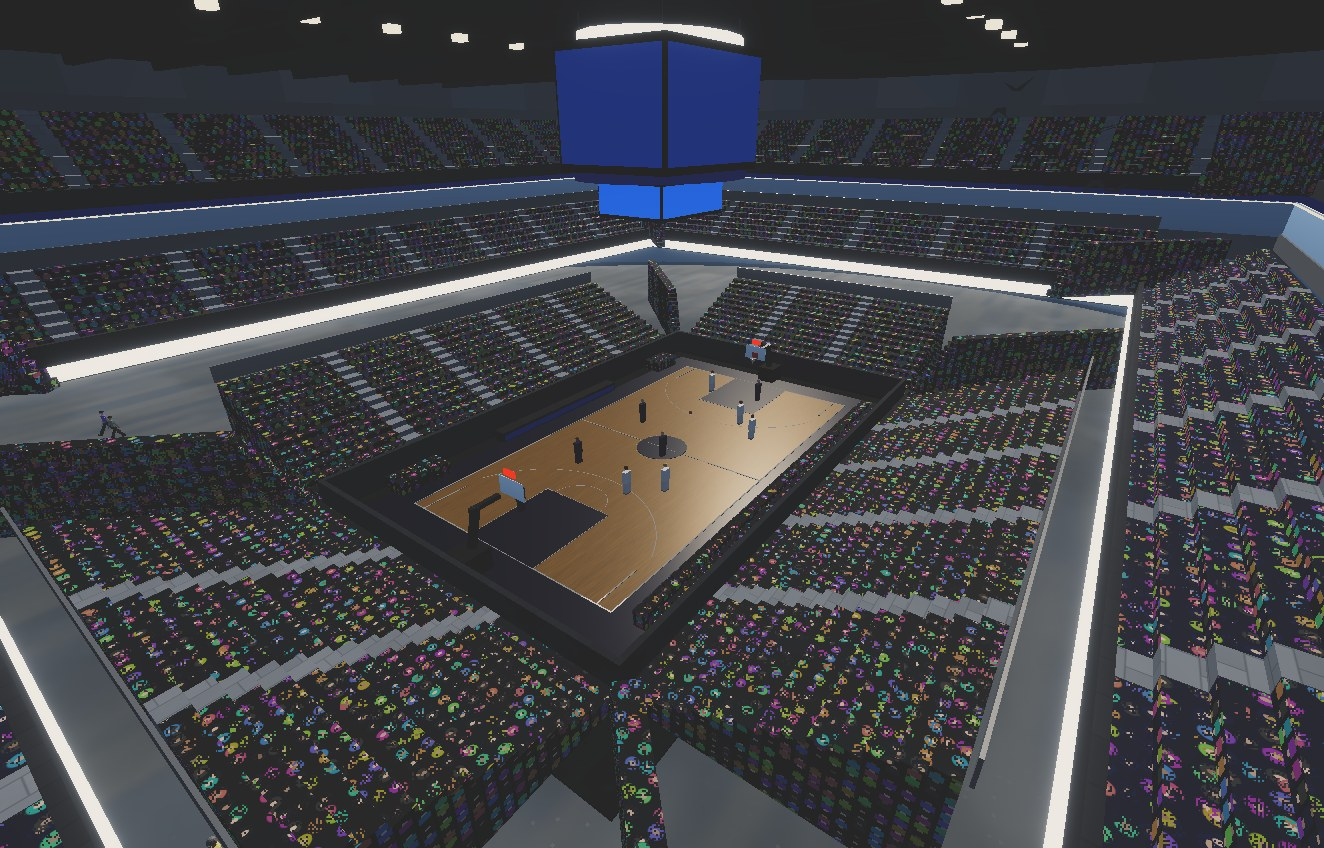
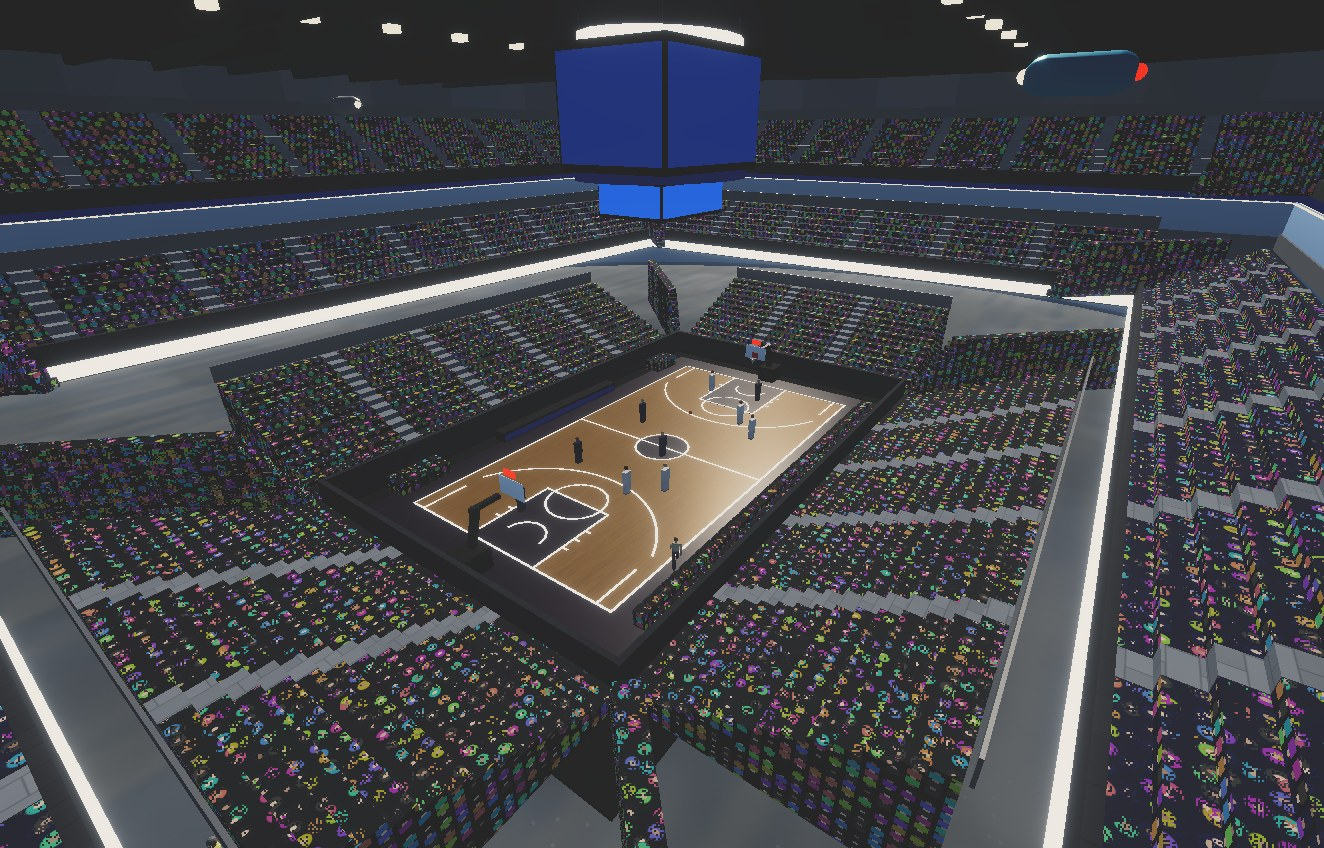
Pitch and court markings: raised above the surface, unshaded paint, wider, constant-width arcs
The pitch lines were buried 1 cm under the mowing stripes and the court lines z-fought with the
painted keys. Lines are now 0.3 m (pitch) and 0.15 m (court) wide in an unshaded paint material
with polygon offset, arcs are built from segments of the same width, and the court has hash marks.

Claude-Session: https://claude.ai/code/session_014yo4DpHJhzR4RbKay17FEp

diff --git a/src/explorer/venues.ts b/src/explorer/venues.ts
@@ -23,6 +23,21 @@ function hashRand(seed: number) {
   };
 }
 
+/**
+ * A painted arc of constant width, built from short straight segments so it is exactly as wide
+ * as the straight lines (scaled ring geometry would thin out on small circles and vanish on big
+ * ones). Angles are measured in the local (x, z) plane from +x towards +z.
+ */
+function paintArc(A: (shape: DShape, mat: DMat, u: number, y: number, v: number, sx: number, sy: number, sz: number, col: string | THREE.Color, rot?: number) => void, cx: number, cz: number, r: number, a0: number, a1: number, y: number, w: number, col: string) {
+  const n = Math.max(6, Math.ceil((r * Math.abs(a1 - a0)) / 0.6));
+  const da = (a1 - a0) / n;
+  for (let k = 0; k < n; k++) {
+    const a = a0 + da * (k + 0.5);
+    // a box's local x points along (cos t, -sin t) after a turn t about y; the tangent at a is (-sin a, cos a)
+    A('box', 'paint', cx + Math.cos(a) * r, y, cz + Math.sin(a) * r, r * Math.abs(da) * 1.06, 0.015, w, col, -a - Math.PI / 2);
+  }
+}
+
 const TEAM_COLS = ['#c8102e', '#034694', '#6cabdd', '#fdb913', '#132257', '#7a263a', '#00a650', '#f47a20'];
 
 /** A straight run of tiered seating along local +x, rising away from the field towards -z. */
@@ -79,24 +94,32 @@ export function footballStadium(out: DistrictData, add: Add, b: Building, warm: 
   A('box', 'stone', 0, 0, 0, L + 12, 0.1, Wp + 12, '#4a7a3a');
   const stripes = 18;
   for (let k = 0; k < stripes; k++) A('box', 'pitch', -L / 2 - 3 + (k + 0.5) * ((L + 6) / stripes), 0.06, 0, (L + 6) / stripes, 0.1, Wp + 6, k % 2 ? '#3f8a34' : '#4c9a3c');
-  const line = '#f4f6f2';
-  const lw = 0.12;
+  // markings sit clear above the tallest stripe (top at 0.16) in unshaded paint, 0.3 m wide so they
+  // still read from the upper tier and from the air
+  const line = '#ffffff';
+  const lw = 0.3;
+  const ly = 0.18;
   const L2 = L / 2;
   const W2 = Wp / 2;
-  A('box', 'plaster', 0, 0.12, W2, L, 0.03, lw, line);
-  A('box', 'plaster', 0, 0.12, -W2, L, 0.03, lw, line);
-  for (const s of [-1, 1]) A('box', 'plaster', s * L2, 0.12, 0, lw, 0.03, Wp, line);
-  A('box', 'plaster', 0, 0.12, 0, lw, 0.03, Wp, line);
-  A('ring', 'plaster', 0, 0.13, 0, 18.3, 1, 18.3, line);
-  A('cyl', 'plaster', 0, 0.12, 0, 0.3, 0.03, 0.3, line);
+  A('box', 'paint', 0, ly, W2, L + lw, 0.015, lw, line);
+  A('box', 'paint', 0, ly, -W2, L + lw, 0.015, lw, line);
+  for (const s of [-1, 1]) A('box', 'paint', s * L2, ly, 0, lw, 0.015, Wp + lw, line);
+  A('box', 'paint', 0, ly, 0, lw, 0.015, Wp, line);
+  paintArc(A, 0, 0, 9.15, 0, Math.PI * 2, ly, lw, line);
+  A('cyl', 'paint', 0, ly, 0, 0.7, 0.015, 0.7, line);
   for (const s of [-1, 1]) {
-    // penalty area 40.3 x 16.5, goal area 18.3 x 5.5, spot at 11, the D
-    A('box', 'plaster', s * (L2 - 16.5), 0.12, 0, lw, 0.03, 40.3, line);
-    for (const t of [-1, 1]) A('box', 'plaster', s * (L2 - 8.25), 0.12, t * 20.15, 16.5, 0.03, lw, line);
-    A('box', 'plaster', s * (L2 - 5.5), 0.12, 0, lw, 0.03, 18.3, line);
-    for (const t of [-1, 1]) A('box', 'plaster', s * (L2 - 2.75), 0.12, t * 9.15, 5.5, 0.03, lw, line);
-    A('cyl', 'plaster', s * (L2 - 11), 0.12, 0, 0.3, 0.03, 0.3, line);
-    A('dArc', 'plaster', s * (L2 - 11), 0.13, 0, 18.3, 1, 18.3, line, s > 0 ? Math.PI : 0);
+    // penalty area 40.3 x 16.5, goal area 18.3 x 5.5, spot at 11, the D, corner arcs
+    A('box', 'paint', s * (L2 - 16.5), ly, 0, lw, 0.015, 40.3 + lw, line);
+    for (const t of [-1, 1]) A('box', 'paint', s * (L2 - 8.25), ly, t * 20.15, 16.5, 0.015, lw, line);
+    A('box', 'paint', s * (L2 - 5.5), ly, 0, lw, 0.015, 18.3 + lw, line);
+    for (const t of [-1, 1]) A('box', 'paint', s * (L2 - 2.75), ly, t * 9.15, 5.5, 0.015, lw, line);
+    A('cyl', 'paint', s * (L2 - 11), ly, 0, 0.6, 0.015, 0.6, line);
+    const toward = s > 0 ? Math.PI : 0;
+    paintArc(A, s * (L2 - 11), 0, 9.15, toward - 0.927, toward + 0.927, ly, lw, line);
+    for (const t of [-1, 1]) {
+      const a = Math.atan2(-t, -s);
+      paintArc(A, s * L2, t * W2, 1, a - Math.PI / 4, a + Math.PI / 4, ly, lw * 0.8, line);
+    }
     // goal: posts, crossbar, a net box behind, stanchions
     const gx = s * (L2 + 0.06);
     for (const t of [-1, 1]) A('box', 'plaster', gx, 0, t * 3.66, 0.12, 2.44, 0.12, '#ffffff');
@@ -146,7 +169,7 @@ export function footballStadium(out: DistrictData, add: Add, b: Building, warm: 
     for (let k = 0; k < 10; k++) A('box', 'cloth', du - 5.4 + k * 1.2, 0.3, W2 + 3.8, 0.9, 0.6, 0.7, s > 0 ? home : away);
     A('box', 'glass', du, 2.1, W2 + 3.2, 12.2, 0.08, 2.4, '#a8c8d8', 0, -0.12);
     for (const e of [-6, 6]) A('box', 'glass', du + e, 0.3, W2 + 3.2, 0.06, 1.8, 2.2, '#a8c8d8');
-    A('box', 'plaster', du, 0.13, W2 + 1.6, 10, 0.02, 0.08, line);
+    A('box', 'paint', du, ly, W2 + 1.6, 10, 0.015, 0.15, line);
   }
   // players' tunnel, fourth official, TV gantry cameras
   A('box', 'dark', 0, 0, W2 + 6.6, 4.5, 3, 1.6, '#1e2228');
@@ -277,29 +300,34 @@ export function nbaArena(add: Add, b: Building) {
   const CL = 28.65;
   const CW = 15.24;
   const H = b.h;
+  // court lines: above the keys and centre disc (tops at 0.23), unshaded, 0.15 m wide
   const line = '#ffffff';
-  const lw = 0.08;
+  const lw = 0.15;
+  const ly = 0.245;
 
   // ── court: maple boards, the apron in team colour, every NBA line
   A('box', 'stone', 0, 0, 0, CL + 14, 0.12, CW + 12, '#2a2e34');
   A('box', 'court', 0, 0.06, 0, CL + 4, 0.12, CW + 4, team);
   A('box', 'court', 0, 0.08, 0, CL, 0.12, CW, '#d8a868');
-  A('box', 'plaster', 0, 0.21, CW / 2, CL, 0.02, lw, line);
-  A('box', 'plaster', 0, 0.21, -CW / 2, CL, 0.02, lw, line);
-  for (const s of [-1, 1]) A('box', 'plaster', s * CL / 2, 0.21, 0, lw, 0.02, CW, line);
-  A('box', 'plaster', 0, 0.21, 0, lw, 0.02, CW, line);
-  A('ring', 'plaster', 0, 0.22, 0, 3.66, 1, 3.66, line);
+  A('box', 'paint', 0, ly, CW / 2, CL + lw, 0.015, lw, line);
+  A('box', 'paint', 0, ly, -CW / 2, CL + lw, 0.015, lw, line);
+  for (const s of [-1, 1]) A('box', 'paint', s * CL / 2, ly, 0, lw, 0.015, CW + lw, line);
+  A('box', 'paint', 0, ly, 0, lw, 0.015, CW, line);
   A('cyl', 'court', 0, 0.2, 0, 3.5, 0.03, 3.5, team);
+  paintArc(A, 0, 0, 1.83, 0, Math.PI * 2, ly, lw, line);
   for (const s of [-1, 1]) {
     const hoop = s * (CL / 2 - 1.6);
+    const toward = s > 0 ? Math.PI : 0;
     // painted key 4.88 wide, 5.79 deep, free-throw circle, restricted arc, three-point line
     A('box', 'court', s * (CL / 2 - 2.895), 0.2, 0, 5.79, 0.03, 4.88, team);
-    for (const t of [-1, 1]) A('box', 'plaster', s * (CL / 2 - 2.895), 0.21, t * 2.44, 5.79, 0.02, lw, line);
-    A('box', 'plaster', s * (CL / 2 - 5.79), 0.21, 0, lw, 0.02, 4.88, line);
-    A('ring', 'plaster', s * (CL / 2 - 5.79), 0.22, 0, 3.66, 1, 3.66, line);
-    A('dArc', 'plaster', hoop, 0.22, 0, 2.44, 1, 2.44, line, s > 0 ? Math.PI : 0);
-    A('threeArc', 'plaster', hoop, 0.22, 0, 14.48, 1, 14.48, line, s > 0 ? Math.PI : 0);
-    for (const t of [-1, 1]) A('box', 'plaster', s * (CL / 2 - 1.5), 0.21, t * 6.71, 3, 0.02, lw, line);
+    for (const t of [-1, 1]) A('box', 'paint', s * (CL / 2 - 2.895), ly, t * 2.44, 5.79, 0.015, lw, line);
+    A('box', 'paint', s * (CL / 2 - 5.79), ly, 0, lw, 0.015, 4.88 + lw, line);
+    paintArc(A, s * (CL / 2 - 5.79), 0, 1.83, 0, Math.PI * 2, ly, lw, line);
+    paintArc(A, hoop, 0, 1.22, toward - Math.PI / 2, toward + Math.PI / 2, ly, lw, line);
+    paintArc(A, hoop, 0, 7.24, toward - 1.187, toward + 1.187, ly, lw, line);
+    for (const t of [-1, 1]) A('box', 'paint', s * (CL / 2 - 1.5), ly, t * 6.71, 3, 0.015, lw, line);
+    // hash marks along the key
+    for (const t of [-1, 1]) for (const d of [2.1, 3.0, 3.9]) A('box', 'paint', s * (CL / 2 - d), ly, t * (2.44 + 0.2), lw, 0.015, 0.4, line);
     // the basket: padded stanchion, arm, glass backboard with a red frame, rim, net, shot clock
     const bx = s * (CL / 2 + 1.8);
     A('box', 'cloth', bx, 0, 0, 1.6, 1.4, 1.4, '#16181c');

diff --git a/tests/world3d.test.ts b/tests/world3d.test.ts
@@ -283,12 +283,18 @@ describe('futuristic districts', () => {
       if (stadium) {
         const ps = inV(stadium);
         expect(ps.filter((p) => p.mat === 'crowd').length).toBeGreaterThan(100);
-        expect(ps.some((p) => p.shape === 'dArc')).toBe(true);
+        // markings: painted lines and arcs, raised above the mowing stripes
+        const paint = ps.filter((p) => p.mat === 'paint');
+        expect(paint.length).toBeGreaterThan(150);
+        for (const p of paint) expect(p.m.elements[13]).toBeGreaterThan(0.16);
         expect(ps.filter((p) => p.mat === 'net').length).toBe(2);
       }
       const pa = inV(arena!);
       expect(pa.filter((p) => p.mat === 'crowd').length).toBeGreaterThan(100);
-      expect(pa.filter((p) => p.shape === 'threeArc').length).toBe(2);
+      // court lines lie above the painted keys (tops at 0.23)
+      const courtPaint = pa.filter((p) => p.mat === 'paint');
+      expect(courtPaint.length).toBeGreaterThan(80);
+      for (const p of courtPaint) expect(p.m.elements[13]).toBeGreaterThan(0.23);
       expect(pa.filter((p) => p.mat === 'court').length).toBeGreaterThan(4);
     }
   });

diff --git a/src/explorer/Districts.tsx b/src/explorer/Districts.tsx
@@ -186,6 +186,9 @@ export function Districts({ data, quality }: { data: DistrictData; quality: Qual
       glow: new THREE.MeshBasicMaterial({ color: '#ffffff', toneMapped: false }),
       dark: new THREE.MeshStandardMaterial({ color: '#ffffff', roughness: 0.9 }),
       crowd: crowdMaterial(),
+      // pitch and court markings: unshaded so they stay crisp white in shade and at night, drawn
+      // in front of the surface they lie on
+      paint: new THREE.MeshBasicMaterial({ color: '#ffffff', toneMapped: false, polygonOffset: true, polygonOffsetFactor: -2, polygonOffsetUnits: -2 }),
       // the pitch and the court are floodlit after dark
       pitch: new THREE.MeshStandardMaterial({ color: '#ffffff', roughness: 0.95, emissive: new THREE.Color('#3f8a36'), emissiveIntensity: 0 }),
       court: texturedMaterial('wood', { color: '#ffffff', roughness: 0.35, emissive: new THREE.Color('#8a6038'), emissiveIntensity: 0.2 }),

diff --git a/src/explorer/districts.ts b/src/explorer/districts.ts
@@ -9,7 +9,7 @@ import { footballStadium, nbaArena } from './venues';
  * from a handful of instanced shapes so a whole district costs a few draw calls.
  */
 export type DShape = 'box' | 'cyl' | 'cone' | 'hemi' | 'sphere' | 'gable' | 'arch' | 'palmTrunk' | 'fronds' | 'oct' | 'hip' | 'ring' | 'dArc' | 'threeArc';
-export type DMat = 'plaster' | 'stone' | 'roof' | 'glass' | 'water' | 'gold' | 'metal' | 'leaf' | 'bark' | 'glow' | 'wood' | 'lawn' | 'cloth' | 'dark' | 'marble' | 'crowd' | 'pitch' | 'court' | 'net' | 'skylight';
+export type DMat = 'plaster' | 'stone' | 'roof' | 'glass' | 'water' | 'gold' | 'metal' | 'leaf' | 'bark' | 'glow' | 'wood' | 'lawn' | 'cloth' | 'dark' | 'marble' | 'crowd' | 'pitch' | 'court' | 'net' | 'skylight' | 'paint';
 
 export interface DPiece {
   shape: DShape;

diff --git a/PHASE2_REPORT.md b/PHASE2_REPORT.md
@@ -530,6 +530,18 @@ Requested: "Make a basketball NBA sized stadium, make a football Premier League 
 - **Cost.** In the futuristic capital at medium, draw calls went from 415 to 513 per frame. Triangles are 1.09M per frame. The stadium is 1 937 instanced pieces and the arena 1 437. Frame time was not measured cleanly: the run overlapped the test suite.
 - **Not done:** the arena has a single collider for its whole footprint, so the player cannot walk inside; the interior photos use the free photo camera. The browser journey was not re-run.
 
+**Follow-up: visible markings.** Requested: "make the game lines more visible, I can barely see them".
+- **Cause.** The pitch lines sat 1 cm below the tops of the mowing-stripe boxes, so they were hidden. The court lines shared a height with the painted keys and flickered against them. Both sets were also thin (12 cm and 8 cm) and lit like the ground, so they faded in shade and with distance.
+- **Fix.**
+  - Every marking is now drawn in unshaded white paint, pushed in front of its surface.
+  - Pitch lines are 30 cm wide at 18 cm height, above the stripes.
+  - Court lines are 15 cm wide at 24.5 cm height, above the keys and centre disc.
+  - Arcs (centre circles, the Ds, corner arcs, free-throw circles, restricted and three-point arcs) are built from short segments of the same width. Before, scaled ring geometry thinned out on the large circles.
+  - The court gained hash marks along the keys.
+- **Checks.**
+  - Tests now assert that every pitch marking is above 0.16 m and every court marking above 0.23 m.
+  - The stadium and court photos in `docs/screenshots/venues/` were re-shot.
+
 ## Limitations and unfinished items
 
 - **Frame-rate targets unproven** (55 fps at 5× in Universe; 60 fps with ≥ 150 figures on medium): no GPU in this environment. Measured relative to the baseline under software rendering, the current build is 2–3× slower at medium (see Phase 4).
